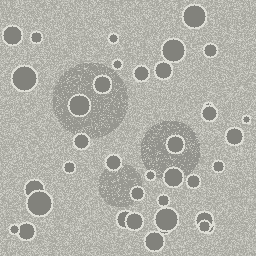
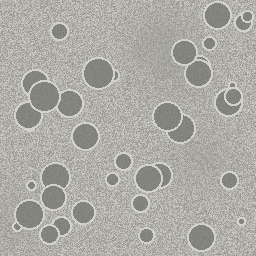
adiciona código usado para gerar textura da lua e grama

diff --git a/tools/gen_textures.py b/tools/gen_textures.py
@@ -1,0 +1,139 @@
+#!/usr/bin/env python3
+"""Gera proceduralmente as texturas usadas no projeto final.
+
+Recria, de forma reproduzível (semente fixa), as imagens que antes existiam
+apenas como binário sem fonte rastreável:
+
+  - assets/tex/grass.png  (64x64)  : grama verde com ruído + faixa de terra
+  - assets/tex/moon.png   (256x256): superfície lunar cinza com crateras
+
+Requer Pillow:
+    pip install pillow
+
+Uso (a partir da raiz do repositório):
+    python3 tools/gen_textures.py
+"""
+
+import os
+import random
+
+from PIL import Image
+
+# Diretório de saída relativo à raiz do repositório (este script vive em tools/).
+REPO_ROOT = os.path.dirname(os.path.dirname(os.path.abspath(__file__)))
+TEX_DIR = os.path.join(REPO_ROOT, "assets", "tex")
+
+SEED = 1337
+
+
+def _lerp(a, b, t):
+    return tuple(int(round(a[i] + (b[i] - a[i]) * t)) for i in range(3))
+
+
+def gen_grass(size=64):
+    """Grama verde (parte de cima) sobre uma faixa de terra (parte de baixo).
+
+    Cores amostradas da textura original:
+        verdes : (54,110,38) -> (74,142,50) -> (104,176,70)
+        terra  : (110,78,48)
+    """
+    rng = random.Random(SEED)
+    img = Image.new("RGB", (size, size))
+    px = img.load()
+
+    greens = [(54, 110, 38), (74, 142, 50), (104, 176, 70)]
+    dirt = (110, 78, 48)
+    dirt_dark = (84, 58, 34)
+
+    dirt_start = int(size * 0.84)  # ~16% inferior vira terra
+
+    for y in range(size):
+        for x in range(size):
+            if y < dirt_start:
+                # ruído de grama: escolhe um tom de verde por pixel
+                base = rng.choice(greens)
+                jitter = rng.randint(-10, 10)
+                px[x, y] = tuple(max(0, min(255, c + jitter)) for c in base)
+            else:
+                base = dirt if rng.random() > 0.30 else dirt_dark
+                jitter = rng.randint(-8, 8)
+                px[x, y] = tuple(max(0, min(255, c + jitter)) for c in base)
+
+    # alguns fios de grama descendo sobre a terra
+    for x in range(size):
+        if rng.random() < 0.55:
+            blade = rng.randint(1, 3)
+            for dy in range(blade):
+                yy = dirt_start + dy
+                if yy < size:
+                    px[x, yy] = rng.choice(greens)
+
+    return img
+
+
+def _draw_crater(px, size, cx, cy, r, rng):
+    """Cratera: disco escuro com uma borda (anel) mais clara."""
+    rim = (210, 210, 202)
+    floor = (132, 132, 126)
+    for y in range(max(0, cy - r - 1), min(size, cy + r + 2)):
+        for x in range(max(0, cx - r - 1), min(size, cx + r + 2)):
+            d = ((x - cx) ** 2 + (y - cy) ** 2) ** 0.5
+            if d <= r - 1.5:
+                j = rng.randint(-6, 6)
+                px[x, y] = tuple(max(0, min(255, c + j)) for c in floor)
+            elif d <= r + 0.5:
+                px[x, y] = rim
+
+
+def gen_moon(size=256):
+    """Superfície lunar: base cinza ruidosa + crateras de vários tamanhos.
+
+    Cor média amostrada da original: ~(176,176,168), faixa 130..222.
+    """
+    rng = random.Random(SEED + 1)
+    img = Image.new("RGB", (size, size))
+    px = img.load()
+
+    # base ruidosa (cinza levemente quente: R=G > B)
+    for y in range(size):
+        for x in range(size):
+            v = rng.randint(150, 205)
+            px[x, y] = (v, v, max(0, v - 8))
+
+    # "mares" — manchas grandes e suaves um pouco mais escuras
+    for _ in range(4):
+        cx, cy = rng.randint(0, size), rng.randint(0, size)
+        r = rng.randint(size // 6, size // 4)
+        for y in range(max(0, cy - r), min(size, cy + r)):
+            for x in range(max(0, cx - r), min(size, cx + r)):
+                d = ((x - cx) ** 2 + (y - cy) ** 2) ** 0.5
+                if d <= r:
+                    t = 1.0 - d / r
+                    px[x, y] = _lerp(px[x, y], (150, 150, 144), 0.35 * t)
+
+    # crateras pequenas e médias
+    n_craters = 38
+    for _ in range(n_craters):
+        r = rng.randint(3, 16)
+        cx = rng.randint(r, size - r)
+        cy = rng.randint(r, size - r)
+        _draw_crater(px, size, cx, cy, r, rng)
+
+    return img
+
+
+def main():
+    os.makedirs(TEX_DIR, exist_ok=True)
+
+    grass_path = os.path.join(TEX_DIR, "grass.png")
+    moon_path = os.path.join(TEX_DIR, "moon.png")
+
+    gen_grass().save(grass_path)
+    print(f"escrito: {grass_path}")
+
+    gen_moon().save(moon_path)
+    print(f"escrito: {moon_path}")
+
+
+if __name__ == "__main__":
+    main()

diff --git a/README.md b/README.md
@@ -19,7 +19,7 @@ Repositório de exemplos de códigos em C++ utilizando OpenGL moderna (3.3+) cri
 ├── 📂 build/                 # Diretório gerado pelo CMake (não incluído no repositório)
 ├── 📂 assets/                # diretório com modelos 3D, texturas, fontes etc
 ├── 📄 CMakeLists.txt         # Configuração do CMake para compilar os projetos
-├── 📄 README.md              # Este arquivo, com a documentação do repositório
+Q├── 📄 README.md              # Este arquivo, com a documentação do repositório
 ├── 📄 GettingStarted.md      # Tutorial detalhado sobre como compilar usando o CMake
 ```
 
@@ -74,11 +74,26 @@ docker run --rm -it \
 
 ### 4) Usando Docker Compose para facilitar
 
+O arquivo `docker-compose.yml` define **um serviço para cada executável** do projeto
+(`hello3d`, `cubodesafiomodulo2`, `atividadevivencial`, `desafiomodulo3`,
+`desafiomod5`, `vivencial2mod4`, `desafiomod6` e `projetofinal`). Todos compartilham
+a mesma imagem (`cgcchibrido:latest`); a primeira execução compila o projeto inteiro.
+
+Primeiro exporte seu usuário/grupo (usados pelo Compose para não rodar como root):
+
 ```bash
 export UID=$(id -u)
 export GID=$(id -g)
-docker compose up --build
 ```
+
+Depois suba **apenas o serviço desejado** (recomendado), por exemplo o projeto final:
+
+```bash
+docker compose up --build projetofinal
+```
+
+> ⚠️ Rodar `docker compose up --build` **sem informar um serviço** iniciaria todos os
+> executáveis de uma vez (várias janelas simultâneas). Prefira sempre indicar o serviço.
 
 ### 5) Revogar permissão do X server após uso
 
@@ -87,3 +102,22 @@ xhost -SI:localuser:$USER
 ```
 
 > Observação: a imagem usa renderização por software (`LIBGL_ALWAYS_SOFTWARE=1`) para facilitar compatibilidade em ambientes sem passthrough de GPU.
+
+## 📚 Referências
+
+### Fontes de imagens
+
+- **Caixa do Crash Bandicoot** (`assets/tex/CrashCrate.png`): https://textures.spriters-resource.com/playstation/crash/
+- **Macaco** (`assets/Modelos3D/Suzanne.png`): textura apresentada em aula.
+- **Lua** (`assets/tex/moon.png`): gerada proceduralmente — superfície cinza com ruído e crateras (círculos com bordas mais claras).
+- **Grama** (`assets/tex/grass.png`): gerada proceduralmente — textura verde com ruído mais escuro e uma faixa de terra na base.
+
+> As texturas da **lua** e da **grama** não têm fonte externa: são geradas pelo script
+> [`tools/gen_textures.py`](tools/gen_textures.py) (requer `pip install pillow`). Para
+> regenerá-las, a partir da raiz do repositório:
+>
+> ```bash
+> python3 tools/gen_textures.py
+> ```
+
+